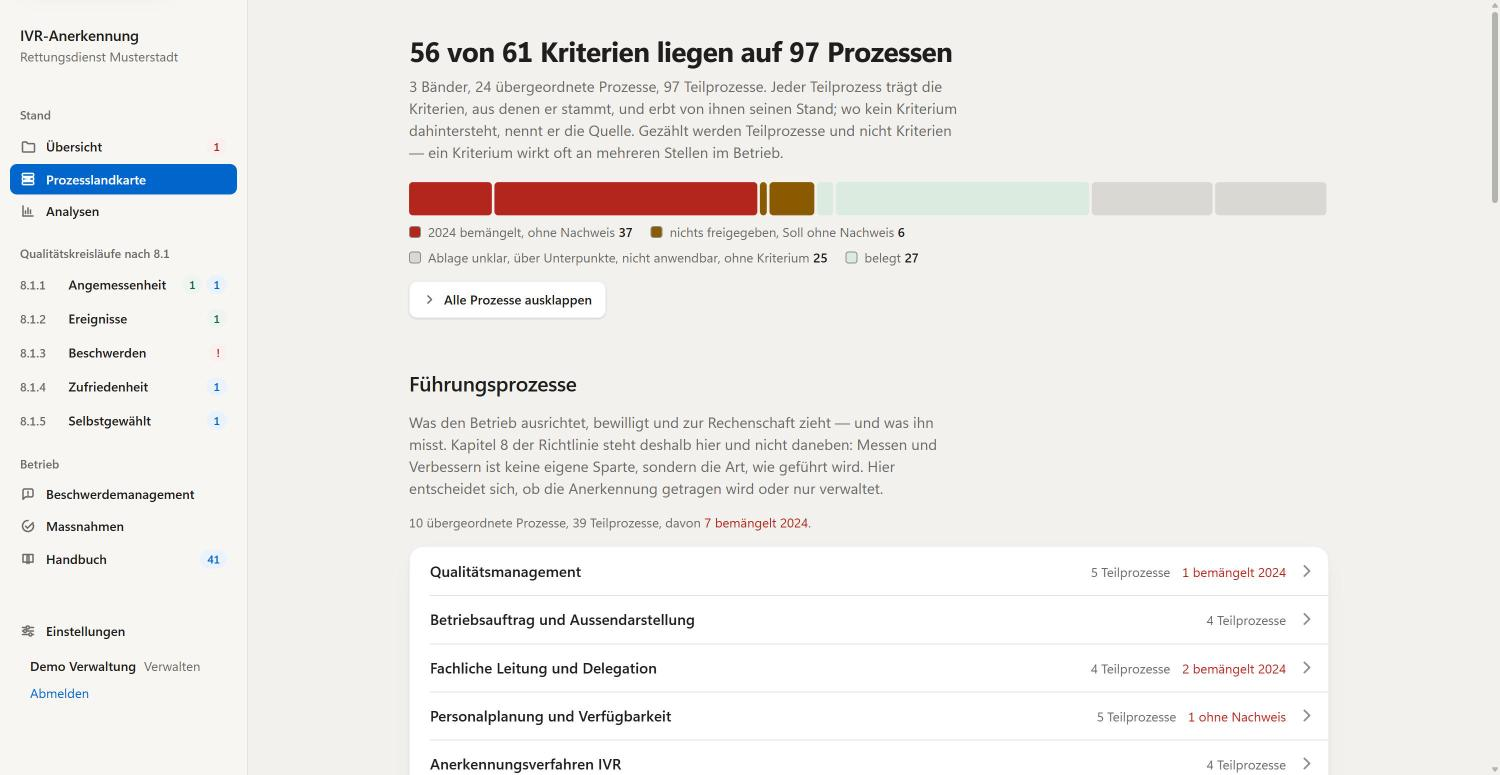
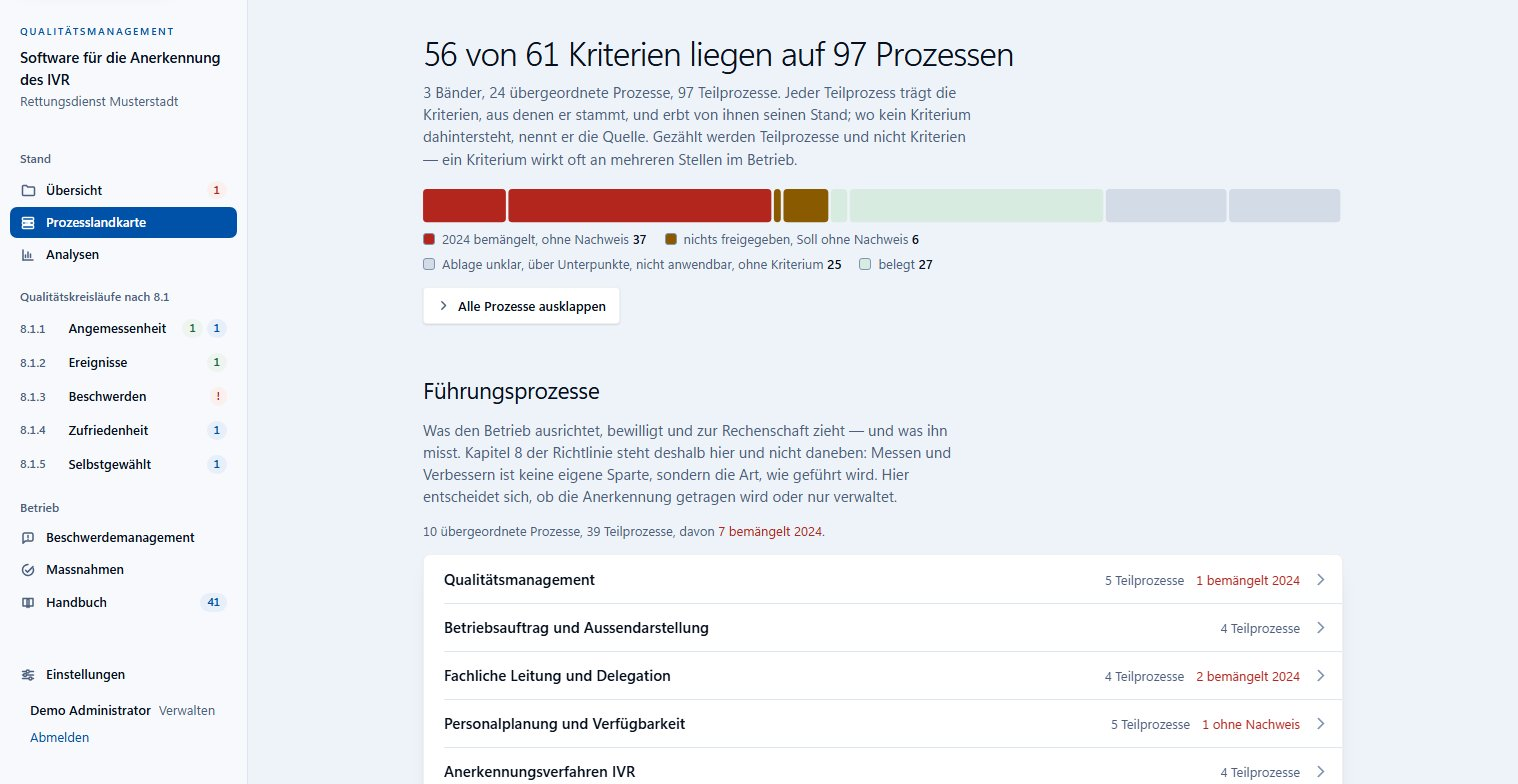
Anwendung heisst «Software für die Anerkennung des IVR»
Seitenleiste, Leiste am Telefon, Seitentitel, Anmeldemaske und App-Titel
tragen den beschreibenden Namen statt der Wortmarke «IVR-Anerkennung».
Die vier Bilder der Produktseite sind aus der Demo neu aufgenommen,
1518x784 im hellen Schema, damit sie den neuen Namen zeigen.

diff --git a/web/ivr/anwendung/vorlagen/anmeldung.html b/web/ivr/anwendung/vorlagen/anmeldung.html
@@ -3,7 +3,7 @@
 <head>
 <meta charset="utf-8">
 <meta name="viewport" content="width=device-width, initial-scale=1">
-<title>Anmeldung — IVR-Anerkennung</title>
+<title>Anmeldung — Software für die Anerkennung des IVR</title>
 <script>
   /* Vor dem ersten Zeichnen, sonst blitzt die falsche Fläche auf, bevor das
      gewählte Schema greift. Die Wahl in der Seitenleiste gilt; ohne Wahl
@@ -350,14 +350,14 @@
       Mindestens zehn Zeichen.</p>
   {% elif schau %}
     <p class="marke">Demo</p>
-    <h1>IVR-Anerkennung</h1>
+    <h1>Software für die Anerkennung des IVR</h1>
     <p class="unterzeile">
       Dossier, Betriebshandbuch und Qualitätskreisläufe an einem Ort.
       Wählen Sie eine Stufe, dann sehen Sie, was sie darf.
     </p>
   {% else %}
     <h1>Anmeldung</h1>
-    <p class="unterzeile">IVR-Anerkennung und Betriebshandbuch{% if betrieb %},
+    <p class="unterzeile">Software für die Anerkennung des IVR und Betriebshandbuch{% if betrieb %},
       {{ betrieb }}{% endif %}. Beim ersten Mal nur den Benutzer eingeben —
       das Passwort legen Sie dann selbst fest.</p>
   {% endif %}

diff --git a/web/ivr/anwendung/vorlagen/grundgeruest.html b/web/ivr/anwendung/vorlagen/grundgeruest.html
@@ -3,7 +3,7 @@
 <head>
 <meta charset="utf-8">
 <meta name="viewport" content="width=device-width, initial-scale=1">
-<title>{{ titel }} — IVR-Anerkennung</title>
+<title>{{ titel }} — Software für die Anerkennung des IVR</title>
 <script>
   /* Vor dem ersten Zeichnen, sonst blitzt die falsche Fläche auf, bevor
      das gewählte Schema greift. Ohne Wahl entscheidet die Anlage: im
@@ -1903,14 +1903,14 @@
           aria-controls="hauptnav" aria-label="Navigation öffnen">
     <svg viewBox="0 0 16 16" aria-hidden="true"><use href="#sym-menue"/></svg>
   </button>
-  <span class="obenleiste-wo">IVR-Anerkennung</span>
+  <span class="obenleiste-wo">Software für die Anerkennung des IVR</span>
 </header>
 <div class="navschleier" hidden></div>
 
 <div class="huelle">
 <aside class="seitenleiste">
   <div class="kopfbereich">
-    <span class="wortmarke">IVR-Anerkennung</span>
+    <span class="wortmarke">Software für die Anerkennung des IVR</span>
     <span class="betrieb">{{ betrieb or betrieb_name() }}</span>
   </div>
 

diff --git a/web/ivr/anwendung/app.py b/web/ivr/anwendung/app.py
@@ -1,4 +1,4 @@
-"""IVR-Anerkennung und Betriebshandbuch für einen Rettungsdienst.
+"""Software für die Anerkennung des IVR und Betriebshandbuch für einen Rettungsdienst.
 
 Vier Ansichten auf einer Wirbelsäule, dem Kriterienregister:
 Dossier, Handbuch, Analysen, Fälle. Der Fortschrittsbalken ist nicht die
@@ -28,7 +28,7 @@ import landkarte
 import pfade
 import praefix
 
-app = FastAPI(title="IVR-Anerkennung und Betriebshandbuch")
+app = FastAPI(title="Software für die Anerkennung des IVR und Betriebshandbuch")
 vorlagen = Jinja2Templates(directory=str(pfade.VORLAGEN))
 
 # Das Handbuch und die Fallanhaenge brauchen ihre Tabellen, auch in einer
